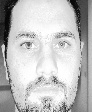
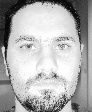
1) Wrapped facial recognizer algorithm and functions within a class.
2) Finally corrected the detectAndReframe function:
images are well resized now, keeping right aspect ratio 
ANNNNNDDDD doesn't seg fault anymore (simply can't)
Indeed we check whether reframed ROI is out of frame, and if it is,
then instead of increasing height we decrease width. 

3) Also confidence (or "distance" as they call it) is now printed for a facial recognition.

Jack

diff --git a/Reconnaissance_Faciale/src/faceDetecter.cpp b/Reconnaissance_Faciale/src/faceDetecter.cpp
@@ -7,11 +7,49 @@
 #include "opencv/ml.h"
 
 #include "faceDetecter.h"
-
-#define CONST_WIDTH 92
-#define CONST_HEIGHT 112
+#include <iostream>
 
 using namespace cv;
+
+
+bool FaceDetecter::isOutOfFrame(Mat imgIn,Rect roi) const
+{
+  // check for lower bounds
+  if ((roi.x<0) || (roi.y<0) ||
+      (roi.x+roi.width>imgIn.cols) || (roi.y+roi.height>imgIn.rows))
+    return true;
+  else 
+    return false;
+}
+
+// we grow the ROI such that we reach the constant ratio
+Rect FaceDetecter::growROIToRatioOnX (Rect roi) const
+{
+  Rect grownROI=roi;
+  float xfactor=(float)roi.height*(float)this->ratio-(float)roi.width;
+  int xfactori=(int)xfactor;
+  Point factorDecay(xfactori/2,0);
+  Size factorGrow(xfactori,0);
+
+  grownROI=grownROI-factorDecay;
+  grownROI=grownROI+factorGrow;
+
+  return grownROI;
+}
+
+// we grow the ROI such that we reach the constant ratio
+Rect FaceDetecter::growROIToRatioOnY (Rect roi) const
+{
+  Rect grownROI=roi;
+  float yfactor=(float)roi.width/(float)this->ratio-(float)roi.height;
+  int yfactori=(int)yfactor;
+  Point factorDecay(0,yfactori/2);
+  Size factorGrow(0,yfactori);
+  grownROI=grownROI+factorGrow;
+  grownROI=grownROI-factorDecay;
+
+  return grownROI;
+}
 
 int FaceDetecter::detectAndReframe( Mat frame,Mat& imOut)
 {
@@ -65,62 +103,23 @@ int FaceDetecter::detectAndReframe( Mat frame,Mat& imOut)
       break;
     }
 
+  // RATIO OF MAXFACE IS ALWAYS 1
+  // therefore we add height, coz' targeted ratio is <1
 
-  /////////////////////// this codes create an ellipse around the face on the frame image
-  /////////////////////// useful for debuging
-  // pick the center of the face
-  // Point center( maxFace.x + maxFace.width*0.5, maxFace.y + maxFace.height*0.5 );
-  // ellipse( frame, center, Size( maxFace.width*0.5, maxFace.height*0.5), 0, 0, 360, Scalar( 255, 0, 255 ), 4, 8, 0 );
-  ///////////////////////
+  // the current ratio is superior to the one we want to reach:
+  // current image is wider:
+  // we grow the height
+  Rect reframed=this->growROIToRatioOnY(maxFace);
 
-  //***************************************************************************
-  //***************************************************************************
-  // cropping image
-  //***************************************************************************
-  //***************************************************************************
 
-  // printf("now grows the image.. (this causes core cump quite often)\n");
-  // // say the factor is 15 of the width
-  // int coefW=50;
-  // int coefH=3;
-  // int factorWidth=(int)maxFace.width/coefW;
-  // int factorHeight=(int)maxFace.height/coefH;  
-  // Point decayFaceFactor(-factorWidth/2,-factorHeight/2);
-  // Size growFaceFactor(factorWidth,factorHeight);
-  // maxFace = maxFace + growFaceFactor;
-  // maxFace = maxFace + decayFaceFactor;
-  
-  
-  //***************************************************************************
-  //***************************************************************************
-  //  constant ratio width/height
-  //***************************************************************************
-  //***************************************************************************
+  if (this->isOutOfFrame(frame_gray,reframed))
+    {
+      // we added on the y, but resulting image was out of frame
+      // therefore we remove on x to keep aspect ratio without being out of frame
+      reframed=this->growROIToRatioOnX(maxFace);
+    }
 
-  printf("computing constant aspect ratio\n");
-  //now we set aspect ratio to final one
-  int ratio = CONST_HEIGHT / CONST_WIDTH;
-  int myRatio = maxFace.height / maxFace.width;
-  Point keepAOffset;
-  Size keepADecay;
-  if (!myRatio<ratio)
-  {
-	  //increase y
-
-	keepAOffset=Point(-(ratio*maxFace.height-maxFace.width)/2,0);
-	keepADecay=Size((ratio*maxFace.height-maxFace.width),0);
-  }
-  else
-  {
-	  //increase x
-	keepAOffset=Point(0,-(ratio*maxFace.width-maxFace.height)/2);
-	keepADecay=Size(0,(ratio*maxFace.width-maxFace.height));
-  }
-
-  maxFace = maxFace + keepAOffset;
-  maxFace = maxFace + keepADecay;
- 
-  Mat faceROI = frame_gray( maxFace );
+  Mat faceROI = frame_gray( reframed );
 
   //***************************************************************************
   //***************************************************************************
@@ -128,6 +127,7 @@ int FaceDetecter::detectAndReframe( Mat frame,Mat& imOut)
   //***************************************************************************
   //***************************************************************************
 
+  // the final resize to reach constant width height dimensions
   resize(faceROI,imOut,Size(CONST_WIDTH,CONST_HEIGHT));
   
 

diff --git a/Reconnaissance_Faciale/src/facialRecognition.cpp b/Reconnaissance_Faciale/src/facialRecognition.cpp
@@ -21,8 +21,8 @@
 #include <sys/stat.h>
 #include <sys/types.h>
 
-#include "facialRecognition.h"
 #include "faceDetecter.h"
+#include "facialRecognition.h"
 #include "labelImage.h"
 
 
@@ -30,10 +30,13 @@ using namespace cv;
 
 
 
-std::vector<Mat> images;
-std::vector<int> labels;
+void RecognizerOfFace::flush()
+{
+  images.clear();
+  labels.clear();
+}
 
-void initImages()
+void RecognizerOfFace::initImages()
 {
   string filepath,filepathSub, baseName="../Base_de_donnees/upload/", dirSub="/profile/reco/";
   DIR *dp,*dpSub;
@@ -91,7 +94,7 @@ void initImages()
 
 
 
-int whois (Mat personToPredict)
+void RecognizerOfFace::whois (Mat personToPredict,int &labelPredicted,double &confidence) 
 {
 
   /////////////////////////////////////////////////// 
@@ -104,7 +107,7 @@ int whois (Mat personToPredict)
   /////////////////////////////////////////////////// 
   /////////////////////////////////////////////////// fill our vectors with database images/labels
   ///////////////////////////////////////////////////
-  initImages();
+  this->initImages();
 
 
   /////////////////////////////////////////////////// 
@@ -115,7 +118,11 @@ int whois (Mat personToPredict)
   /////////////////////////////////////////////////// 
   /////////////////////////////////////////////////// test if the following pic belongs
   /////////////////////////////////////////////////// 
-  return model->predict(personToPredict);
+  model->predict(personToPredict,labelPredicted,confidence);
+
+  // test if confidence is high enough
+  if (confidence<threshold)
+    labelPredicted=-1;
 }
 
 
@@ -130,9 +137,13 @@ int main (int argc,char** argv)
     {
     case (1):
       {
-	Mat imgPerson = imread(argv[2], CV_LOAD_IMAGE_GRAYSCALE);	
-	int ret= whois(imgPerson);
-	printf("Recognition done, the ugly guy on the picture has id %d\n",ret);
+	Mat imgPerson = imread(argv[2], CV_LOAD_IMAGE_GRAYSCALE);
+	RecognizerOfFace recognizer;
+	// RecognizerOfFace recognizer(80);
+	double confidence=0.;
+	int ret=0;
+	recognizer.whois(imgPerson,ret,confidence);
+	printf("Recognition done, the ugly guy on the picture has id %d (distance %f)\n",ret,confidence);
 	return ret;
       }
       break;

diff --git a/Reconnaissance_Faciale/include/facialRecognition.h b/Reconnaissance_Faciale/include/facialRecognition.h
@@ -14,55 +14,24 @@
 
 #include "labelImage.h"
 
-class FacialRecognition
+
+
+class RecognizerOfFace
 {
  private:
-  /// the database of faces
-  /// should match the real  (ROM) database
-  std::vector<LabelImage> dataBase;
-
+  std::vector<cv::Mat> images;
+  std::vector<int> labels;
  public:
-  FacialRecognition();
-  ~FacialRecognition();
-
-  /** 
-   * read from ROM database and load images/labels into vector database (RAM)
-   * this function should be called once
-   *
-   */
-  void initDatabase ();
-
-  /** 
-   * given a person's name, this function looks for that guy in the database and load
-   * it into its vector (RAM). It creates a new label for him.
-   * 
-   * @param personName 
-   * 
-   * @return code that indicate if the person has been found
-   */
-  int readPersonFromDatabase(std::string personName);
-
-  /** 
-   * Discard a label such that we don't try to match a given face to the labeled person anymore.
-   * This function might be useful later on for speeding up the algorithm using heuristics.
-   * DO NOT REMOVE THE LABELED PERSON FROM THE DATABASE
-   */
-  void discardLabel (int label);
-  /** 
-   * Opposite of discard: if the label was discarded in database then it won't be anymore.
-   * 
-   */
-  void keepLabel (int label);
-
-  /** 
-   * given a well formated image of a face, this function check whether the guy on the picture is
-   * in the database. It returns the label of this guy if he is, or -1 otherwise.
-   * 
-   * @param img the image of the face to test
-   * 
-   * @return the label of the person, or -1 if not in database
-   */
-  int isInDatabase (cv::Mat img);
+  inline RecognizerOfFace():
+  threshold(0.)
+    {}
+  inline RecognizerOfFace(double limit):
+    threshold(limit)
+  {}
+  double threshold;
+  void initImages();
+  void whois (cv::Mat personToPredict,int &label,double &confidence);
+  void flush();
 };
 
 

diff --git a/Reconnaissance_Faciale/include/faceDetecter.h b/Reconnaissance_Faciale/include/faceDetecter.h
@@ -15,6 +15,8 @@
 #define SINGLE_FACE_FOUND 1
 #define MANY_FACES_FOUND 2
 
+#define CONST_WIDTH 92.
+#define CONST_HEIGHT 112.
 
 
 ////////////////////////////////////////////
@@ -28,6 +30,11 @@ class FaceDetecter
   cv::CascadeClassifier eyes_cascade;
 
  public:
+
+
+  /* the const width/height */
+  const static float ratio=CONST_WIDTH / CONST_HEIGHT;
+
   /** 
    * constructor
    * initialisation of classifiers with specified filenames
@@ -45,6 +52,13 @@ class FaceDetecter
     if( !eyes_cascade.load( eyes_cascade_name ) ){ printf("FaceDetecter:--(!)Error loading %s\n",eyes_cascade_name.c_str()); exit(-1); };
     cv::RNG rng(12345);
   }
+
+  /* alter x of the ROI */
+  cv::Rect growROIToRatioOnX (cv::Rect roi) const;
+  /* alter y of the ROI */
+  cv::Rect growROIToRatioOnY (cv::Rect roi) const;
+  bool isOutOfFrame(cv::Mat imgIn,cv::Rect roi) const;
+
 
   /** 
    * this funtion detects a face on a image and reframe the image
